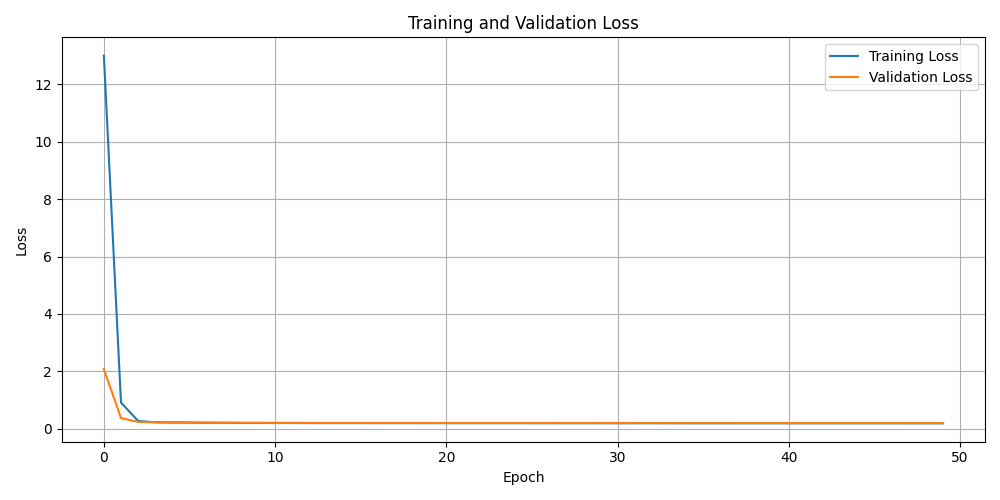
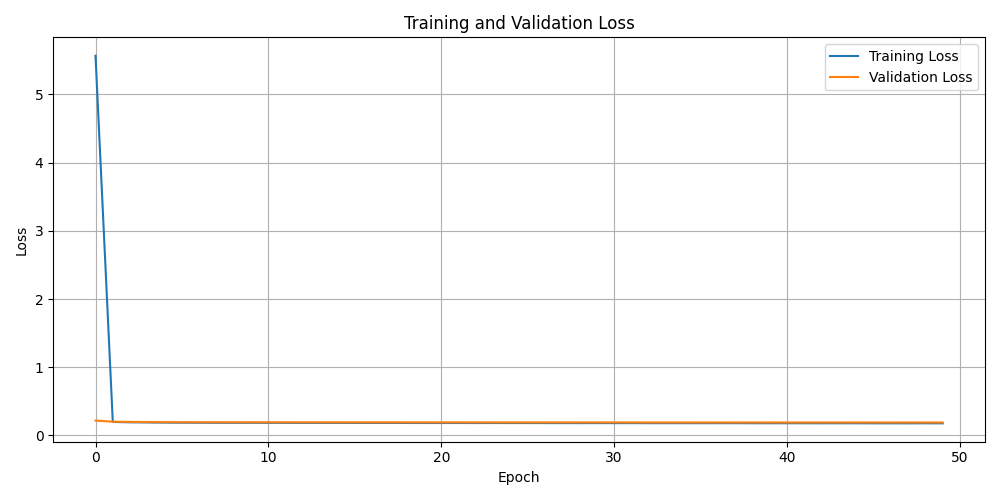
re format

diff --git a/project/training/nn.py b/project/training/nn.py
@@ -50,7 +50,9 @@ class Net(nn.Module):
     def __init__(self, input_size):
         super(Net, self).__init__()
         self.model = nn.Sequential(
-            nn.Linear(input_size, 128),
+            nn.Linear(input_size, 256),
+            nn.ReLU(),
+            nn.Linear(256, 128),
             nn.ReLU(),
             nn.Linear(128, 64),
             nn.ReLU(),
@@ -176,7 +178,7 @@ def train(datasets, num_epochs, learning_rate):
                 print("Saved training plot as 'training_loss_and_accuracy.png'")
     print("average sigma across all models: ", avg(sigmas))
 def main():
-    df = joblib.load("results_subset_1M.pkl")
+    df = joblib.load("results_dataframe.pkl")
     datasets = create_datasets(df, 9, 10, 4, 6, 2)
     train(datasets, 50, .001)
 

diff --git a/project/training/subset.py b/project/training/subset.py
@@ -1,0 +1,15 @@
+import pandas as pd
+import joblib
+
+# Load the original DataFrame
+input_file = "results_dataframe.pkl"
+df = joblib.load(input_file)
+
+# Take the first million rows
+subset = df.iloc[:1_000_000]
+
+# Save the subset using joblib
+output_file = "results_subset_1M.joblib"
+joblib.dump(subset, output_file)
+
+print(f"Saved {len(subset)} rows to '{output_file}'")
